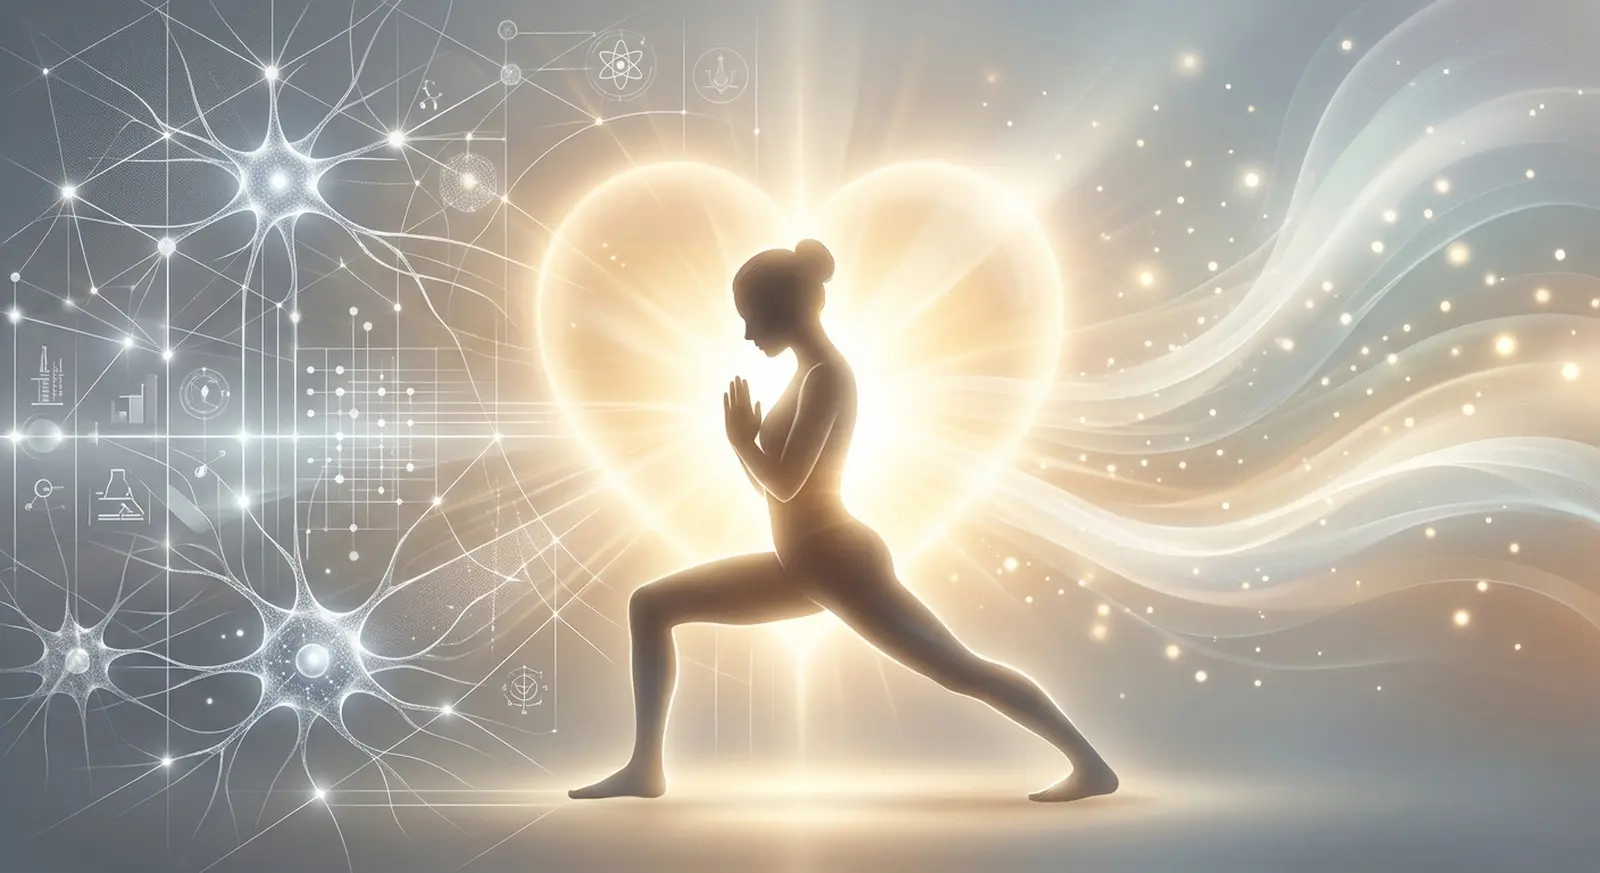
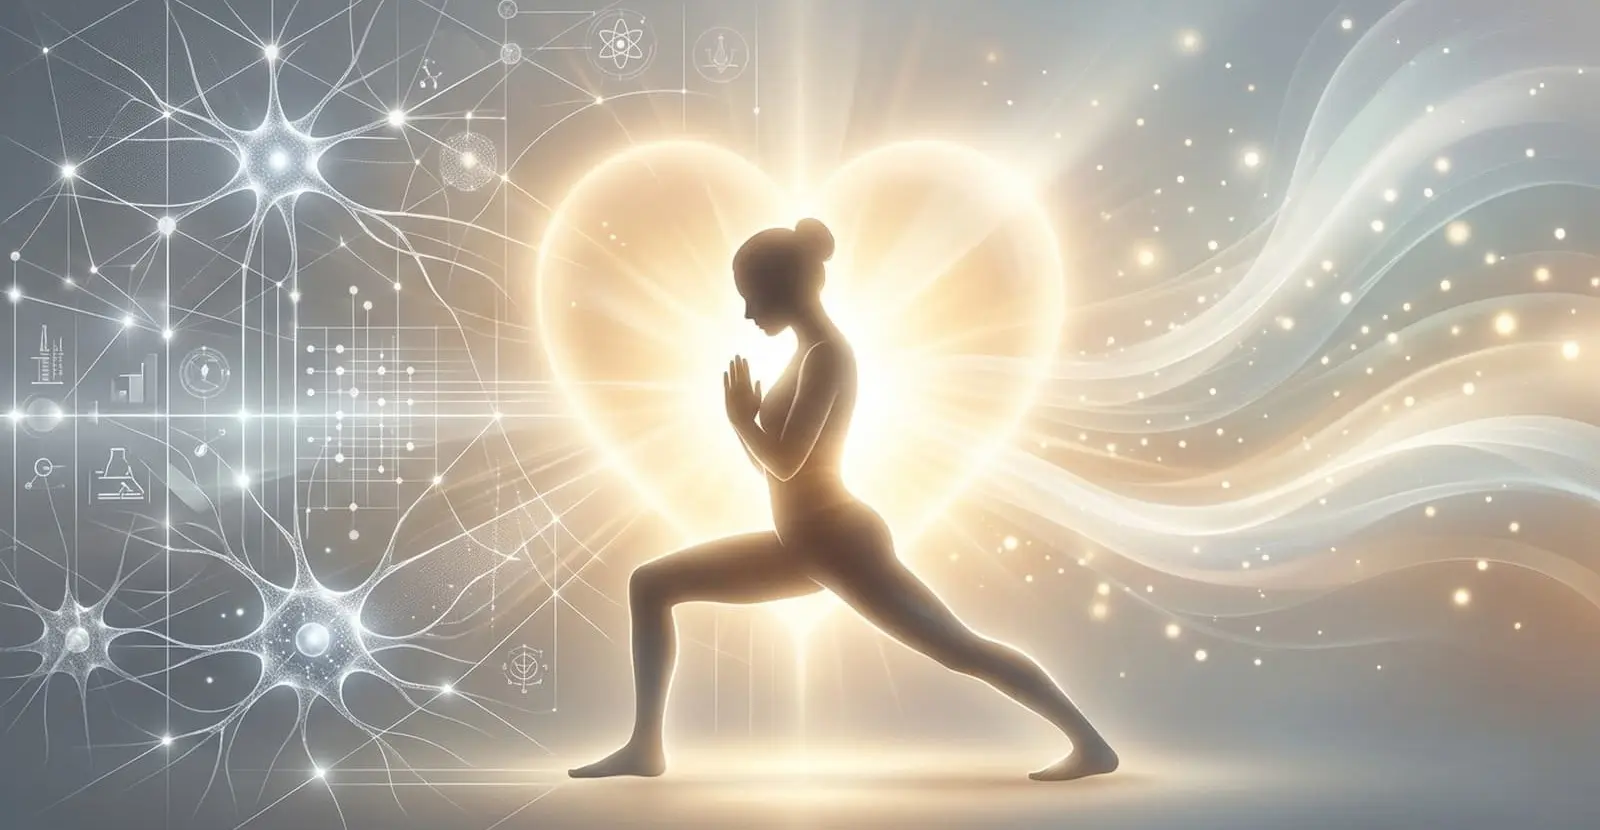
Ilustratia cropped 1600x830: sters duplicatul (hero-illustration.wepb.webp) si varianta cu benzi negre; w/h actualizate

diff --git a/src/data/therapy-ro.js b/src/data/therapy-ro.js
@@ -1,13 +1,13 @@
 // Psihoterapie (RO) — copia furnizata, aplicata ca atare; ton informal, catre cititor. Aprobată ca atare.
 // Ilustrația este primul bloc (banda de sub titlu), afișată centrată, max 900 px, fara text afisat;
-// fisierul este WebP real, 1600x873, fara text in imagine; width/height vin din bloc.
+// fisierul este WebP real, 1600x830 (benzile negre taiate), fara text in imagine; width/height vin din bloc.
 // Alegeri: fara italic (confirmat; pagina nu foloseste italic), a doua linie din lista REBT
 // evita repetitia "transformarea", randul de inaintea tabelului pastreaza fraza aprobata, durata de 50 de minute
 // este adaugata la inceputul sectiunii "Cum functioneaza o sedinta" (aprobata), iar prima coloana a tabelului este aldinata prin CSS (nu prin marcaj).
 export const therapyRo = {
   title: 'Psihoterapie',
   blocks: [
-    { t: 'img', src: '/assets/hero-illustration.webp', w: 1600, h: 873, alt: 'Ilustrație: figură în poziția luptătorului, palmele împreunate, lumină în formă de inimă în spate, rețea geometrică în stânga, valuri de lumină în dreapta.' },
+    { t: 'img', src: '/assets/hero-illustration.webp', w: 1600, h: 830, alt: 'Ilustrație: figură în poziția luptătorului, palmele împreunate, lumină în formă de inimă în spate, rețea geometrică în stânga, valuri de lumină în dreapta.' },
     { t: 'h3', v: 'Instrumente validate științific pentru claritate mentală și reziliență' },
     { t: 'p', v: 'Când stresul, anxietatea sau autoîndoiala preiau controlul, simți adesea că evenimentele din exterior îți decid în totalitate liniștea interioară. Însă cheia libertății emoționale stă în modul în care procesăm și provocăm povestea pe care ne-o spunem în minte.' },
     { t: 'quote', v: '„Gândește-te la terapie ca la învățarea unui set nou de abilități. Nu doar vom discuta despre probleme; vom privi gândurile și credințele care îți alimentează reacțiile emoționale și vom exersa activ strategii, astfel încât, în timp, să devii propriul tău terapeut.”' },

diff --git a/src/data/therapy-en.js b/src/data/therapy-en.js
@@ -1,10 +1,10 @@
 // Psihoterapie (EN) — oglenda copiei RO; frazele din textul clientului sunt pastrate unde se potrivesc. Fara italic (confirmat).
-// Ilustrația: primul bloc (banda de sub titlu), WebP 1600x873, fara text in imagine; alt este singurul text, in EN.
+// Ilustrația: primul bloc (banda de sub titlu), WebP 1600x830, fara text in imagine; alt este singurul text, in EN.
 // Durata de 50 de minute este adaugata la inceputul sectiunii "How a Session Works" (aprobata).
 export const therapyEn = {
   title: 'Psychotherapy',
   blocks: [
-    { t: 'img', src: '/assets/hero-illustration.webp', w: 1600, h: 873, alt: 'Illustration: a figure in a warrior lunge, hands together, a heart of light behind, a geometric grid on the left, waves of light on the right.' },
+    { t: 'img', src: '/assets/hero-illustration.webp', w: 1600, h: 830, alt: 'Illustration: a figure in a warrior lunge, hands together, a heart of light behind, a geometric grid on the left, waves of light on the right.' },
     { t: 'h3', v: 'Evidence-Based Tools for Mental Clarity & Resilience' },
     { t: 'p', v: 'When stress, anxiety, or self-doubt take over, it often feels like external events are in complete control of your peace of mind. But the key to emotional freedom lies in how we process and challenge the narrative inside our heads.' },
     { t: 'quote', v: '"Think of therapy as learning a new set of skills. We aren\'t just going to talk about problems; we are going to look at the thoughts and beliefs driving your emotional reactions, and actively practice strategies so you eventually become your own therapist."' },

diff --git a/README.md b/README.md
@@ -29,7 +29,7 @@ npm run build    # genereaza dist/ — fisiere statice, se pot hosta direct
 - Domeniu: `astro.config.mjs` — `site` este `https://paullucianszasz.ro/`; canonical, hreflang, `og:url`, JSON-LD, sitemap si `public/robots.txt` folosesc acest domeniu. La hosting, redirectioneaza `www.paullucianszasz.ro` (301) spre `paullucianszasz.ro`, ca sa ramana un singur domeniu canonical. Redirecturile din `astro.config.mjs` sunt pagini meta-refresh, nu 301 reale — hostingul poate face 301 pentru vechile cai.
 - `src/components/ContactPage.astro` — formularul nu foloseste niciun serviciu extern: la trimis deschide programul de email al vizitatorului cu datele compuse (`mailto:`). Nu e nimic de inlocuit aici.
 - `src/data/site.js` — adresa, telefonul si emailul sunt cele actuale (Andrei Șaguna Nr. 8, Cluj-Napoca 400103 / +40 723 333 609 / paullucianszaszpsihoterapeut@gmail.com). Adresa este in `office` (un singur loc): footer in ambele limbi, propozitia din Home, descrierile Contact, JSON-LD in `src/data/seo.js` si pinul din Google Maps. La mutare se schimba aici si, in aceeasi zi, adresa din Google Business Profile.
-- `public/assets/` — logo-urile (PNG) si poza de profil (`me-2.jpg`) sunt cele actuale; inlocueste-le doar daca ai variante noi. Ilustrația este `hero-illustration.webp` (1600x873, ~64 KB, WebP real, fara text in imagine), afișată ca banda la inceputul paginii Psihoterapie, imediat sub titlu, fără text afișat; numele si `alt` se schimba in `therapy-ro.js` / `therapy-en.js`. Fisierele se incarca in GitHub → `public/assets/` (nu in radacina repo-ului, care nu este servita) → Add file → Upload files, iar Cloudflare le servește la `https://paullucianszasz.ro/assets/...` dupa build.
+- `public/assets/` — logo-urile (PNG) si poza de profil (`me-2.jpg`) sunt cele actuale; inlocueste-le doar daca ai variante noi. Ilustrația este `hero-illustration.webp` (1600x830, ~59 KB, WebP real, fara text in imagine), afișată ca banda la inceputul paginii Psihoterapie, imediat sub titlu, centrată la max 900 px, fără text afișat; numele si `alt` se schimba in `therapy-ro.js` / `therapy-en.js`. Fisierele se incarca in GitHub → `public/assets/` (nu in radacina repo-ului, care nu este servita) → Add file → Upload files, iar Cloudflare le servește la `https://paullucianszasz.ro/assets/...` dupa build.
 
 ## Publicare articole (Blog)
 
